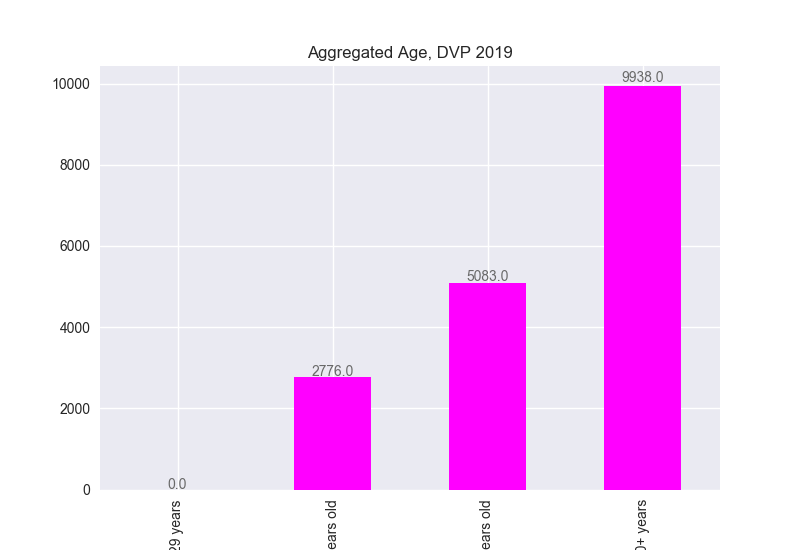
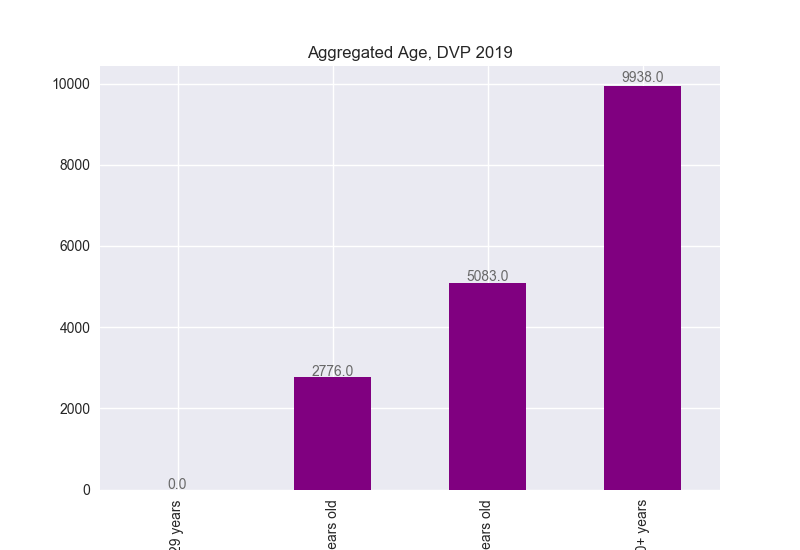
change dvp 2019 to purple

Changed region(s): [[0.75, 0.1545, 0.875, 0.8964], [0.5625, 0.4945, 0.6562, 0.8964], [0.3438, 0.68, 0.4688, 0.8964]]

diff --git a/plotting.py b/plotting.py
@@ -83,7 +83,7 @@ def plot(filename,year,dvp_flag,plot_color):
 if __name__ == '__main__':
     vouchers_2017 = 'results/2017_vouchers_voter_file_all_cols.csv'
     vouchers_2019 = 'results/2019_vouchers_voter_file_all_cols.csv'
-    plot(vouchers_2019,2019,True,"magenta")
+    plot(vouchers_2019,2019,True,"purple")
     plot(vouchers_2017,2017,True,"cyan")
 
     cash_2017 = "results/2017_cash_all_cols.csv"
